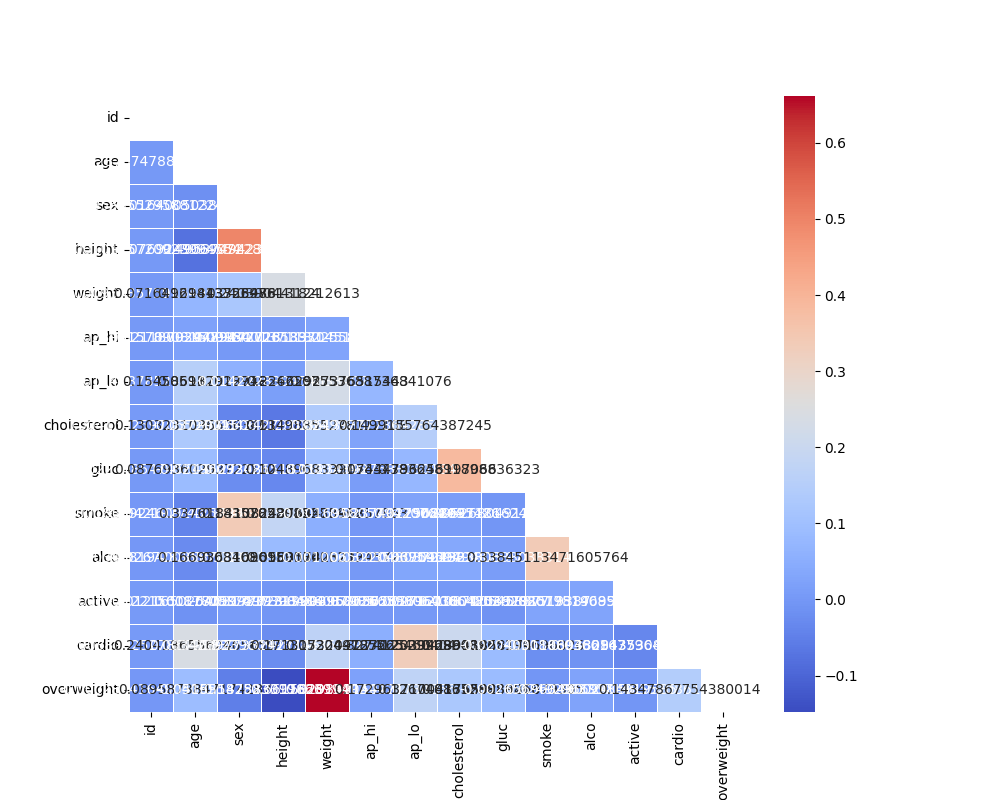
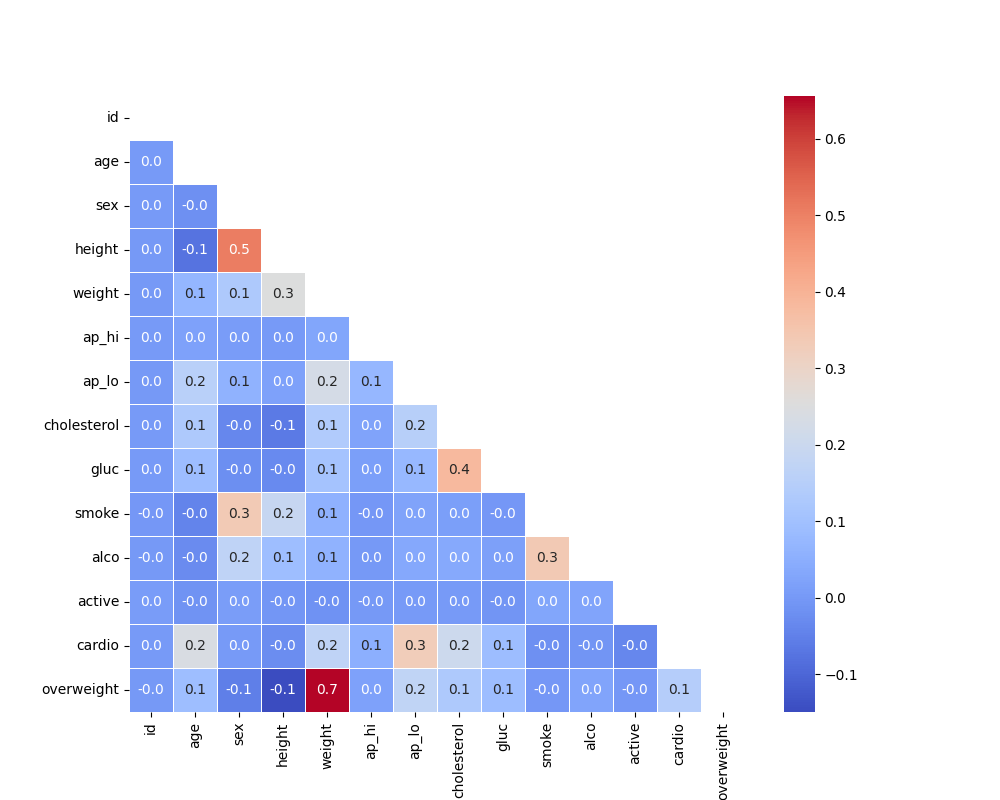
fix bugs

diff --git a/medical_data_visualizer.py b/medical_data_visualizer.py
@@ -13,7 +13,13 @@ df['gluc'] = gluc_mask.astype(int)
 cholesterol_mask = df['cholesterol'] > 1
 df['cholesterol'] = cholesterol_mask.astype(int)
 
-
+def round_up(x):
+    if x > 0:
+        return np.ceil(x*10)/10
+    elif x < 0:
+        return np.floor(x*10)/10
+    else:
+        return 0.0
 def draw_cat_plot():
     df_cat = pd.melt(
         df,
@@ -42,9 +48,9 @@ def draw_heat_map():
     df_heat = df[
         (df['ap_lo'] <= df['ap_hi']) &
         (df['height'] >= df['height'].quantile(0.025)) &
-        (df['height'] < df['height'].quantile(0.975)) &
+        (df['height'] <= df['height'].quantile(0.975)) &
         (df['weight'] >= df['weight'].quantile(0.025)) &
-        (df['weight'] < df['weight'].quantile(0.975))
+        (df['weight'] <= df['weight'].quantile(0.975))
         ]
 
     corr = df_heat.corr()
@@ -58,7 +64,7 @@ def draw_heat_map():
         # annot=annot,
         annot=True,
         cmap='coolwarm',
-        fmt='',
+        fmt='.1f',
         square=True,
         linewidths=0.5
     )
